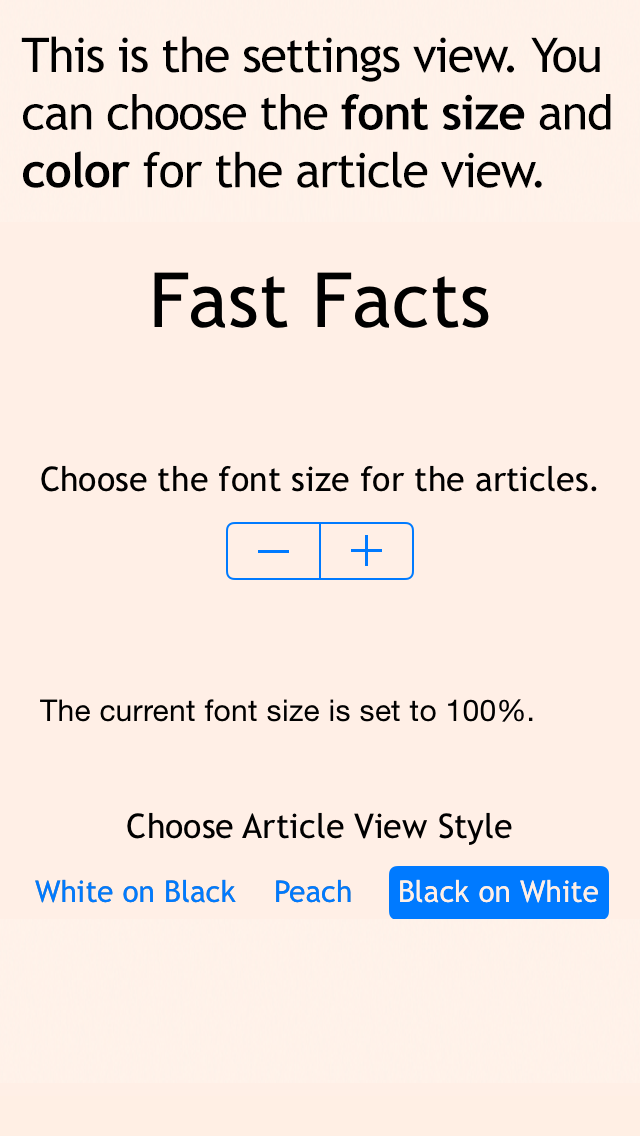
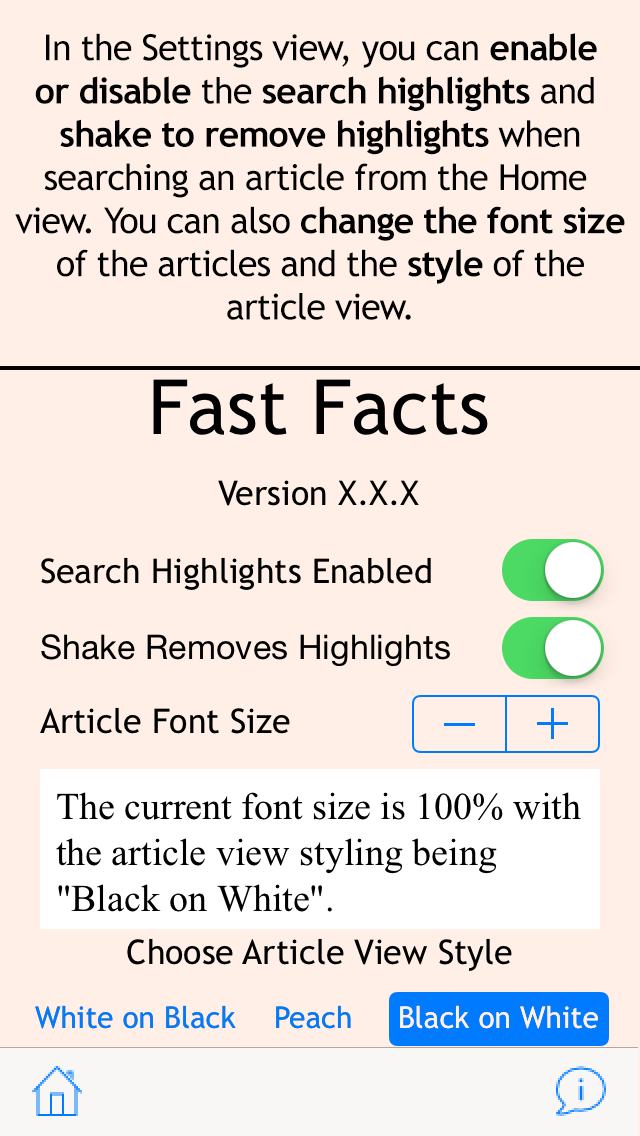
Version 0.6.5: - Fixed Settings bug - Made a new tutorial

diff --git a/MobileFastFacts/SettingsViewController.m b/MobileFastFacts/SettingsViewController.m
@@ -125,7 +125,7 @@ static NSInteger FONTSIZEDEFAULT = 5;
     _slider.value = fontSizeValue;
     // Manipulation of slider values so that it will be a percentage.
     NSInteger displayValue = fontSizeValue*100/FONTSIZEDEFAULT;
-    NSString *html = [NSString stringWithFormat:@"<html><body>The current font size is <span id=\"fontsize\">%ld%%</span> with article view style choice of \"<span id=\"csschoice\"></span>\".</body><html>", (long)displayValue];
+    NSString *html = [NSString stringWithFormat:@"<html><body>The current font size is <span id=\"fontsize\">%ld%%</span> with the article view styling being \"<span id=\"csschoice\"></span>\".</body><html>", (long)displayValue];
     [webView loadHTMLString:html baseURL:nil];
     
     if(cssValue == 1) {
@@ -151,7 +151,7 @@ static NSInteger FONTSIZEDEFAULT = 5;
     self.navigationItem.hidesBackButton = YES;
     
     // Add the version number to the Settings View screen.
-    _versionNumber.text = [@"Version " stringByAppendingString:[[NSBundle mainBundle] objectForInfoDictionaryKey:@"CFBundleShortVersionString"]];
+    //_versionNumber.text = [@"Version " stringByAppendingString:[[NSBundle mainBundle] objectForInfoDictionaryKey:@"CFBundleShortVersionString"]];
     
     if(highlightSwitch.isOn)
         _highlightEnabledText.text = @"Search Highlights Enabled";
@@ -171,13 +171,13 @@ static NSInteger FONTSIZEDEFAULT = 5;
     NSString *jscript;
     
     if(cssValue == 1) {
-        jscript = [[NSString alloc] initWithFormat:@"document.getElementById(\"csschoice\").innerHTML=\"Black on White\";document.getElementsByTagName('body')[0].style.webkitTextSizeAdjust= '%d%%';document.getElementsByTagName('body')[0].style.color= '#000000'; document.getElementsByTagName('body')[0].style.backgroundColor='#FFFFFF'", fontSizeValue*20];
+        jscript = [[NSString alloc] initWithFormat:@"document.getElementById(\"csschoice\").innerHTML=\"Black on White\";document.getElementsByTagName('body')[0].style.webkitTextSizeAdjust= '%ld%%';document.getElementsByTagName('body')[0].style.color= '#000000'; document.getElementsByTagName('body')[0].style.backgroundColor='#FFFFFF'", fontSizeValue*20];
     }
     else if(cssValue == 2) {
-        jscript = [[NSString alloc] initWithFormat:@"document.getElementById(\"csschoice\").innerHTML=\"White on Black\";document.getElementsByTagName('body')[0].style.webkitTextSizeAdjust= '%d%%';document.getElementsByTagName('body')[0].style.color= '#FFFFFF'; document.getElementsByTagName('body')[0].style.backgroundColor='#000000'", fontSizeValue*20];
+        jscript = [[NSString alloc] initWithFormat:@"document.getElementById(\"csschoice\").innerHTML=\"White on Black\";document.getElementsByTagName('body')[0].style.webkitTextSizeAdjust= '%ld%%';document.getElementsByTagName('body')[0].style.color= '#FFFFFF'; document.getElementsByTagName('body')[0].style.backgroundColor='#000000'", fontSizeValue*20];
     }
     else if(cssValue == 3) {
-        jscript = [[NSString alloc] initWithFormat:@"document.getElementById(\"csschoice\").innerHTML=\"Peach\";document.getElementsByTagName('body')[0].style.webkitTextSizeAdjust= '%d%%';document.getElementsByTagName('body')[0].style.color= '#0000000';document.getElementsByTagName('body')[0].style.backgroundColor='#FFEFE6'", fontSizeValue*20];
+        jscript = [[NSString alloc] initWithFormat:@"document.getElementById(\"csschoice\").innerHTML=\"Peach\";document.getElementsByTagName('body')[0].style.webkitTextSizeAdjust= '%ld%%';document.getElementsByTagName('body')[0].style.color= '#0000000';document.getElementsByTagName('body')[0].style.backgroundColor='#FFEFE6'", fontSizeValue*20];
     }
     [webView stringByEvaluatingJavaScriptFromString:jscript];
 }
@@ -238,7 +238,7 @@ static NSInteger FONTSIZEDEFAULT = 5;
     blackOnWhite.selected = true;
     paper.selected = false;
     
-    NSString *jscript = [[NSString alloc] initWithFormat:@"document.getElementById(\"csschoice\").innerHTML=\"Black on White\";document.getElementsByTagName('body')[0].style.color= '#000000'; document.getElementsByTagName('body')[0].style.backgroundColor='#FFFFFF'"];
+    NSString *jscript = [[NSString alloc] initWithFormat:@"document.getElementById(\"csschoice\").innerHTML=\"black text on a white background\";document.getElementsByTagName('body')[0].style.color= '#000000'; document.getElementsByTagName('body')[0].style.backgroundColor='#FFFFFF'"];
     [webView stringByEvaluatingJavaScriptFromString:jscript];
 }
 
@@ -251,7 +251,7 @@ static NSInteger FONTSIZEDEFAULT = 5;
     blackOnWhite.selected = false;
     paper.selected = false;
     
-    NSString *jscript = [[NSString alloc] initWithFormat:@"document.getElementById(\"csschoice\").innerHTML=\"White on Black\";document.getElementsByTagName('body')[0].style.color= '#FFFFFF'; document.getElementsByTagName('body')[0].style.backgroundColor='#000000'"];
+    NSString *jscript = [[NSString alloc] initWithFormat:@"document.getElementById(\"csschoice\").innerHTML=\"white text on a black background\";document.getElementsByTagName('body')[0].style.color= '#FFFFFF'; document.getElementsByTagName('body')[0].style.backgroundColor='#000000'"];
     [webView stringByEvaluatingJavaScriptFromString:jscript];
 }
 
@@ -264,7 +264,7 @@ static NSInteger FONTSIZEDEFAULT = 5;
     blackOnWhite.selected = false;
     paper.selected = true;
     
-    NSString *jscript = [[NSString alloc] initWithFormat:@"document.getElementById(\"csschoice\").innerHTML=\"Peach\";document.getElementsByTagName('body')[0].style.color= '#0000000'; document.getElementsByTagName('body')[0].style.backgroundColor='#FFEFE6'"];
+    NSString *jscript = [[NSString alloc] initWithFormat:@"document.getElementById(\"csschoice\").innerHTML=\"is black text on a peach background\";document.getElementsByTagName('body')[0].style.color= '#0000000'; document.getElementsByTagName('body')[0].style.backgroundColor='#FFEFE6'"];
     [webView stringByEvaluatingJavaScriptFromString:jscript];
 }
 

diff --git a/MobileFastFacts/FirstViewController.m b/MobileFastFacts/FirstViewController.m
@@ -20,6 +20,7 @@
 @synthesize image3;
 @synthesize image4;
 @synthesize image5;
+@synthesize image6;
 @synthesize defaults;
 
 /*
@@ -81,13 +82,16 @@
             image2 = [[UIImage alloc] initWithData:[NSData dataWithContentsOfFile:[[NSBundle mainBundle] pathForResource:@"second ipad" ofType:@".png"]]];
             image3 = [[UIImage alloc] initWithData:[NSData dataWithContentsOfFile:[[NSBundle mainBundle] pathForResource:@"third ipad" ofType:@".png"]]];
             image4 = [[UIImage alloc] initWithData:[NSData dataWithContentsOfFile:[[NSBundle mainBundle] pathForResource:@"fourth ipad" ofType:@".png"]]];
-            image5 = [[UIImage alloc] initWithData:[NSData dataWithContentsOfFile:[[NSBundle mainBundle] pathForResource:@"fifth ipad" ofType:@".png"]]];        }
+            image5 = [[UIImage alloc] initWithData:[NSData dataWithContentsOfFile:[[NSBundle mainBundle] pathForResource:@"fifth ipad" ofType:@".png"]]];
+            image6 = [[UIImage alloc] initWithData:[NSData dataWithContentsOfFile:[[NSBundle mainBundle] pathForResource:@"sixth ipad" ofType:@".png"]]];
+        }
         else {
             image1 = [[UIImage alloc] initWithData:[NSData dataWithContentsOfFile:[[NSBundle mainBundle] pathForResource:@"first" ofType:@".png"]]];
             image2 = [[UIImage alloc] initWithData:[NSData dataWithContentsOfFile:[[NSBundle mainBundle] pathForResource:@"second" ofType:@".png"]]];
             image3 = [[UIImage alloc] initWithData:[NSData dataWithContentsOfFile:[[NSBundle mainBundle] pathForResource:@"third" ofType:@".png"]]];
             image4 = [[UIImage alloc] initWithData:[NSData dataWithContentsOfFile:[[NSBundle mainBundle] pathForResource:@"fourth" ofType:@".png"]]];
             image5 = [[UIImage alloc] initWithData:[NSData dataWithContentsOfFile:[[NSBundle mainBundle] pathForResource:@"fifth" ofType:@".png"]]];
+            image6 = [[UIImage alloc] initWithData:[NSData dataWithContentsOfFile:[[NSBundle mainBundle] pathForResource:@"sixth" ofType:@".png"]]];
         }
         
         [display setImage:image1];
@@ -117,6 +121,10 @@
         pageController.currentPage = 3;
         [display setImage:image4];
     }
+    else if(pageController.currentPage == 5) {
+        pageController.currentPage = 4;
+        [display setImage:image5];
+    }
 }
 
 // If the user swipes left, go forward a page. If last page, go to HomeViewController.
@@ -139,6 +147,10 @@
         [display setImage:image5];
     }
     else if(pageController.currentPage == 4) {
+        pageController.currentPage = 5;
+        [display setImage:image6];
+    }
+    else if(pageController.currentPage == 5) {
         [self performSegueWithIdentifier:@"toHomeViewController" sender:self];
     }
 }
@@ -158,6 +170,9 @@
     }
     else if(pageController.currentPage == 4) {
         [display setImage:image5];
+    }
+    else if(pageController.currentPage == 5) {
+        [display setImage:image6];
     }
 }
 

diff --git a/MobileFastFacts/FirstViewController.h b/MobileFastFacts/FirstViewController.h
@@ -21,6 +21,7 @@
 @property (strong, nonatomic) UIImage *image3;
 @property (strong, nonatomic) UIImage *image4;
 @property (strong, nonatomic) UIImage *image5;
+@property (strong, nonatomic) UIImage *image6;
 
 @property (strong, nonatomic) NSUserDefaults *defaults;
 
